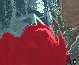
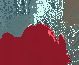
trying to merge small modes

diff --git a/assign1/meanset.py b/assign1/meanset.py
@@ -11,6 +11,7 @@ kernel_thres=1.1
 filename = sys.argv[1]
 img = cv2.imread(filename)
 height, width, channels = img.shape
+modecount=0
 #print height
 #imgLAB = [[[0 for i in range(3)] for j in range(width)] for k in range(height)]
 imgLAB = cv2.cvtColor(img, cv2.COLOR_BGR2LAB)
@@ -35,7 +36,7 @@ def dist(x1,y1,x2,y2):
 	return math.sqrt((m/S)**2*dists(x1,y1,x2,y2)**2 + distc(x1,y1,x2,y2)**2)
 
 def check_convergance(gx,gy):
-	if (math.sqrt(gx**2+gy**2)<7):
+	if (math.sqrt(gx**2+gy**2)<2):
 		return 0
 	else:
 		return 1
@@ -72,7 +73,7 @@ def flatkernel(x1,y1,x2,y2):
 # 		# l[j].clear()
 # 	return
 
-count=0
+
 def assignmode(x,y):
 	i=0
 	lis[i]=[x,y]
@@ -85,10 +86,19 @@ def assignmode(x,y):
 		lis[i]=[tx,ty]
 		i=i+1
 		[tx,ty]=[tx+gradp[tx][ty][0],ty+gradp[tx][ty][1]]
-	count+=1
+	if (i<20):
+		val=10
+		val2=[i,j]
+		for k in range(max(0,i-kernel_window),min(height,i+kernel_window)):
+			for l in range(max(0,j-kernel_window),min(width,j+kernel_window)):
+				temp=dist(i,j,k,l)
+				if(temp<val and not(k==i and l==j )):
+					val=temp
+					val2=[k,l]
+		final[i][j]=val2
 	for j in range(i):
 		[temx,temy]=lis[j]
-		final[temx][temy]=[tx,ty]
+		final[temx][temy]=val2
 	return
 
 
@@ -124,6 +134,7 @@ for i  in range(height):
 	for j in range(width):
 		if(final[i][j][0]==-1):
 			assignmode(i,j)
+			modecount+=1
 
 # print "Final Positions"
 # for i in range(height):
@@ -155,7 +166,7 @@ for i in range(height):
 
 
 print "Computing Final Image"
-print count
+print modecount
 imgLABComp=img
 for i in range(height):
 	for j in range(width):
